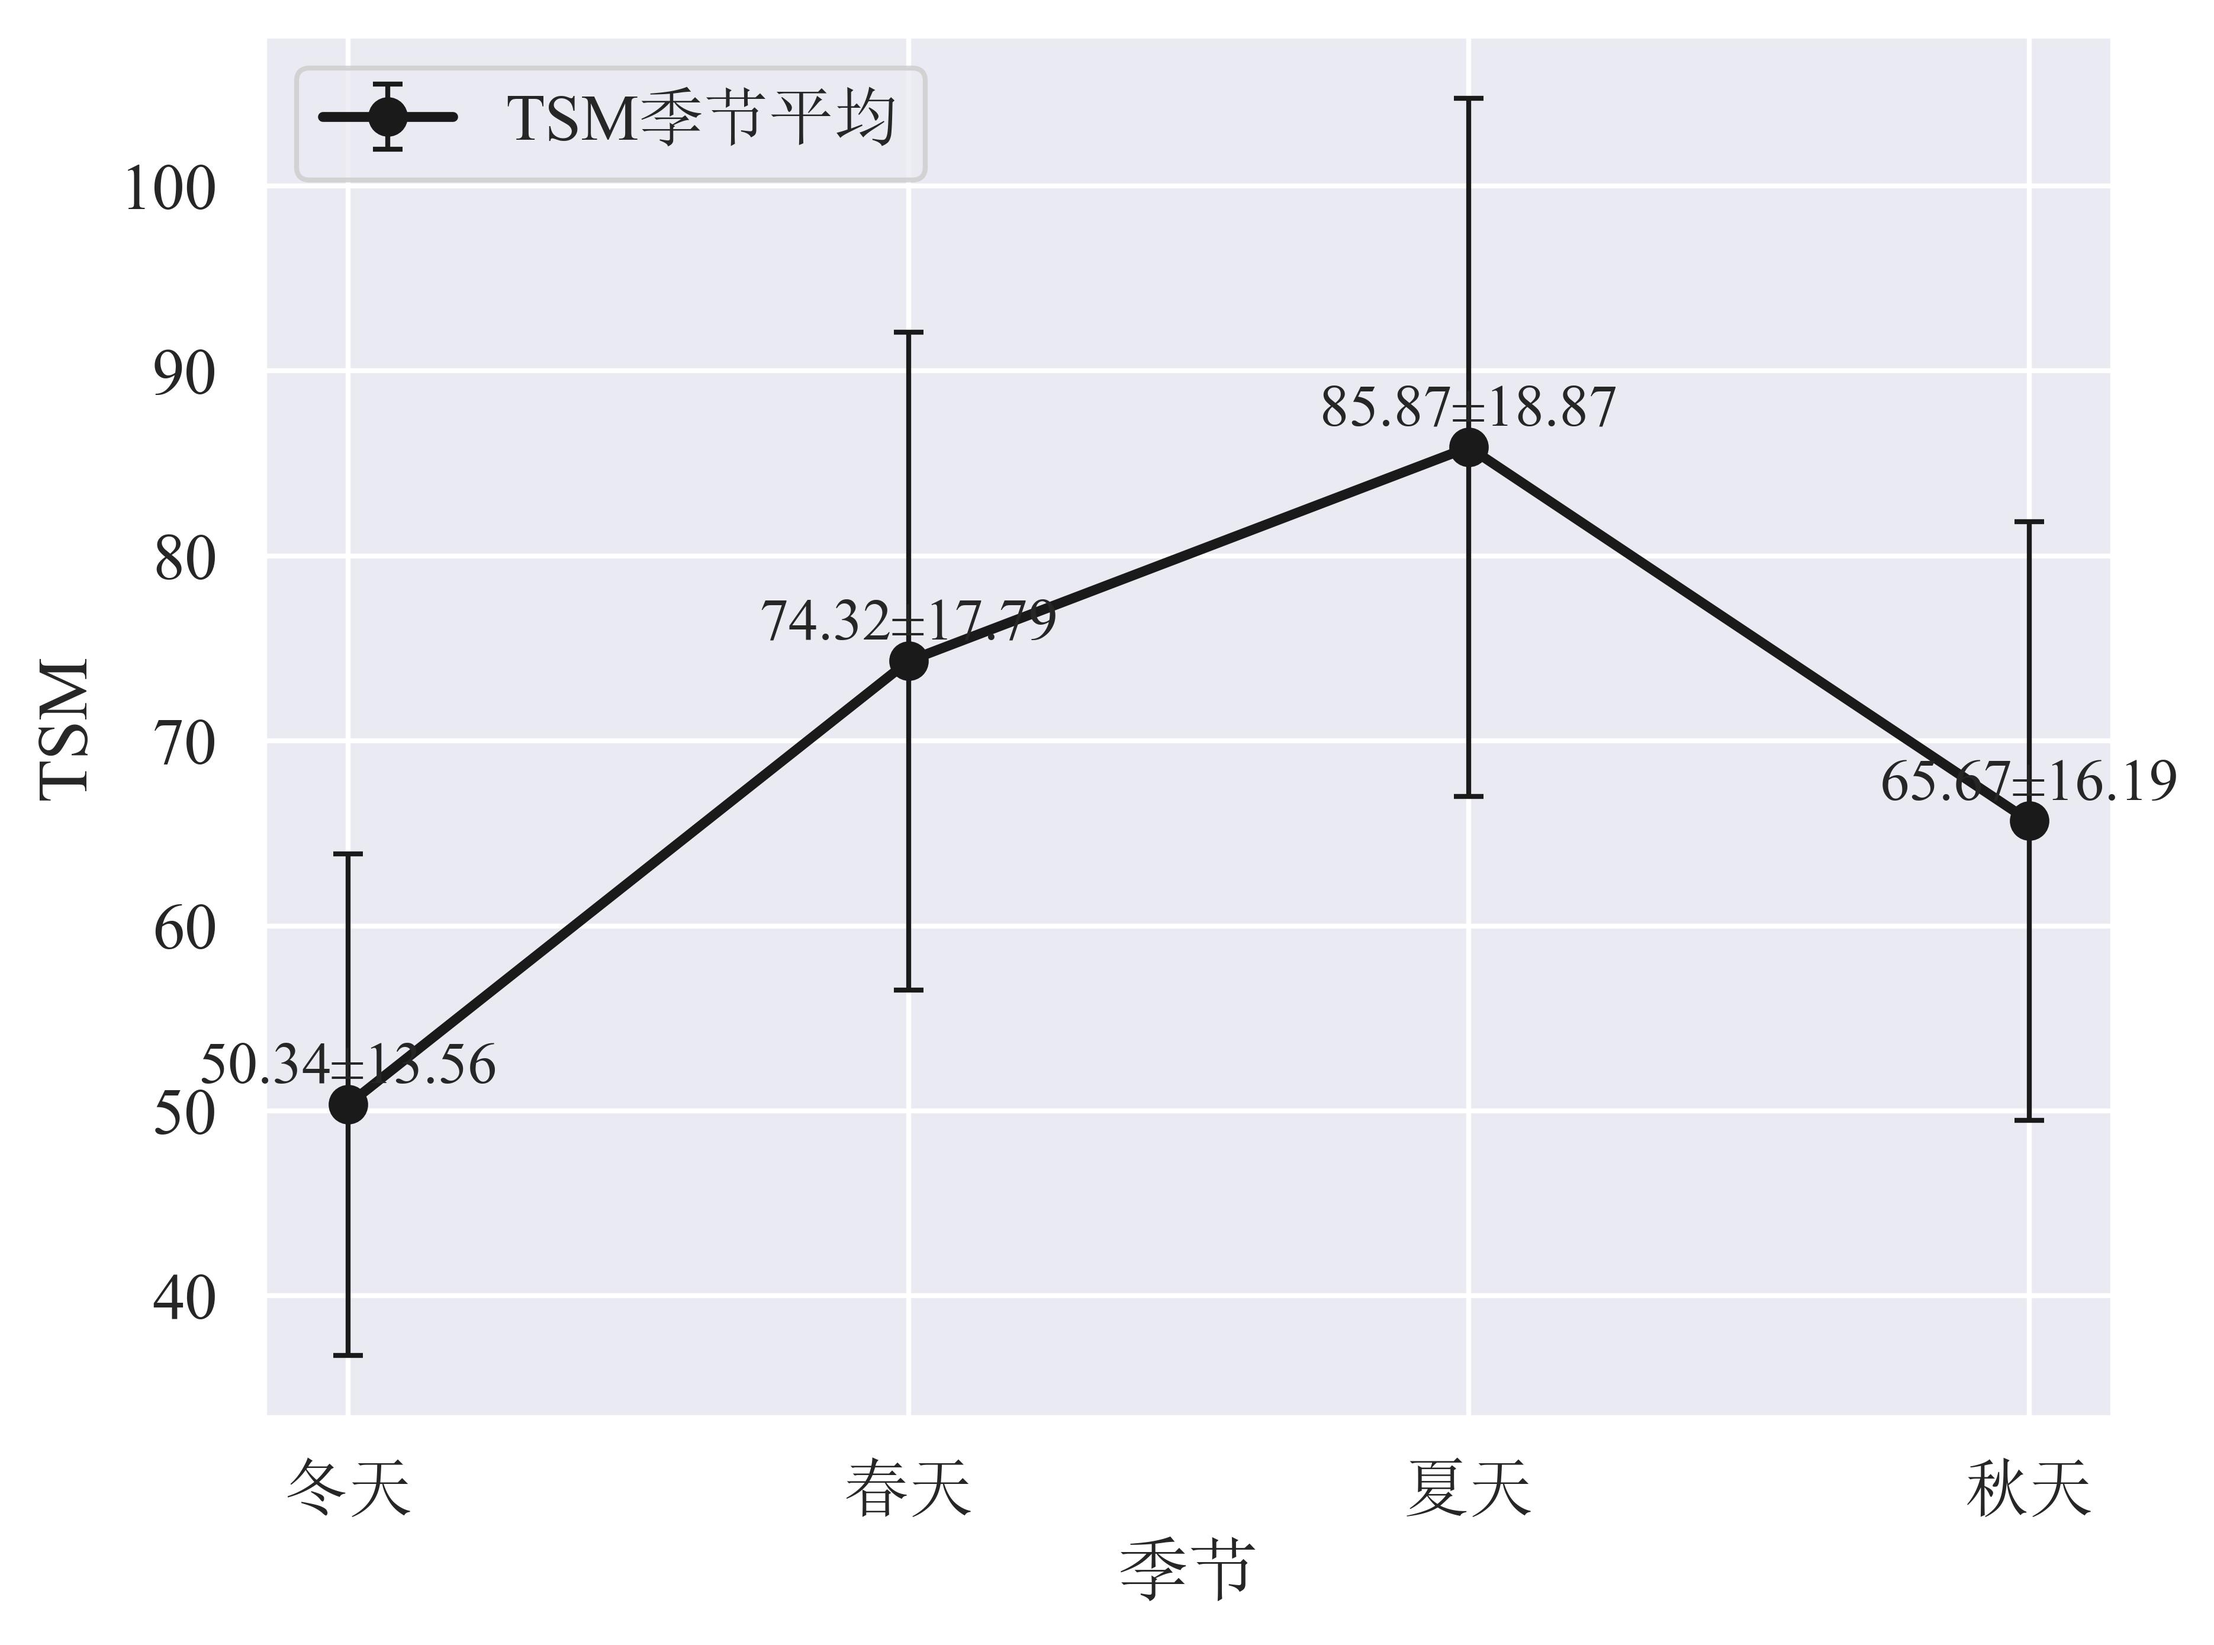
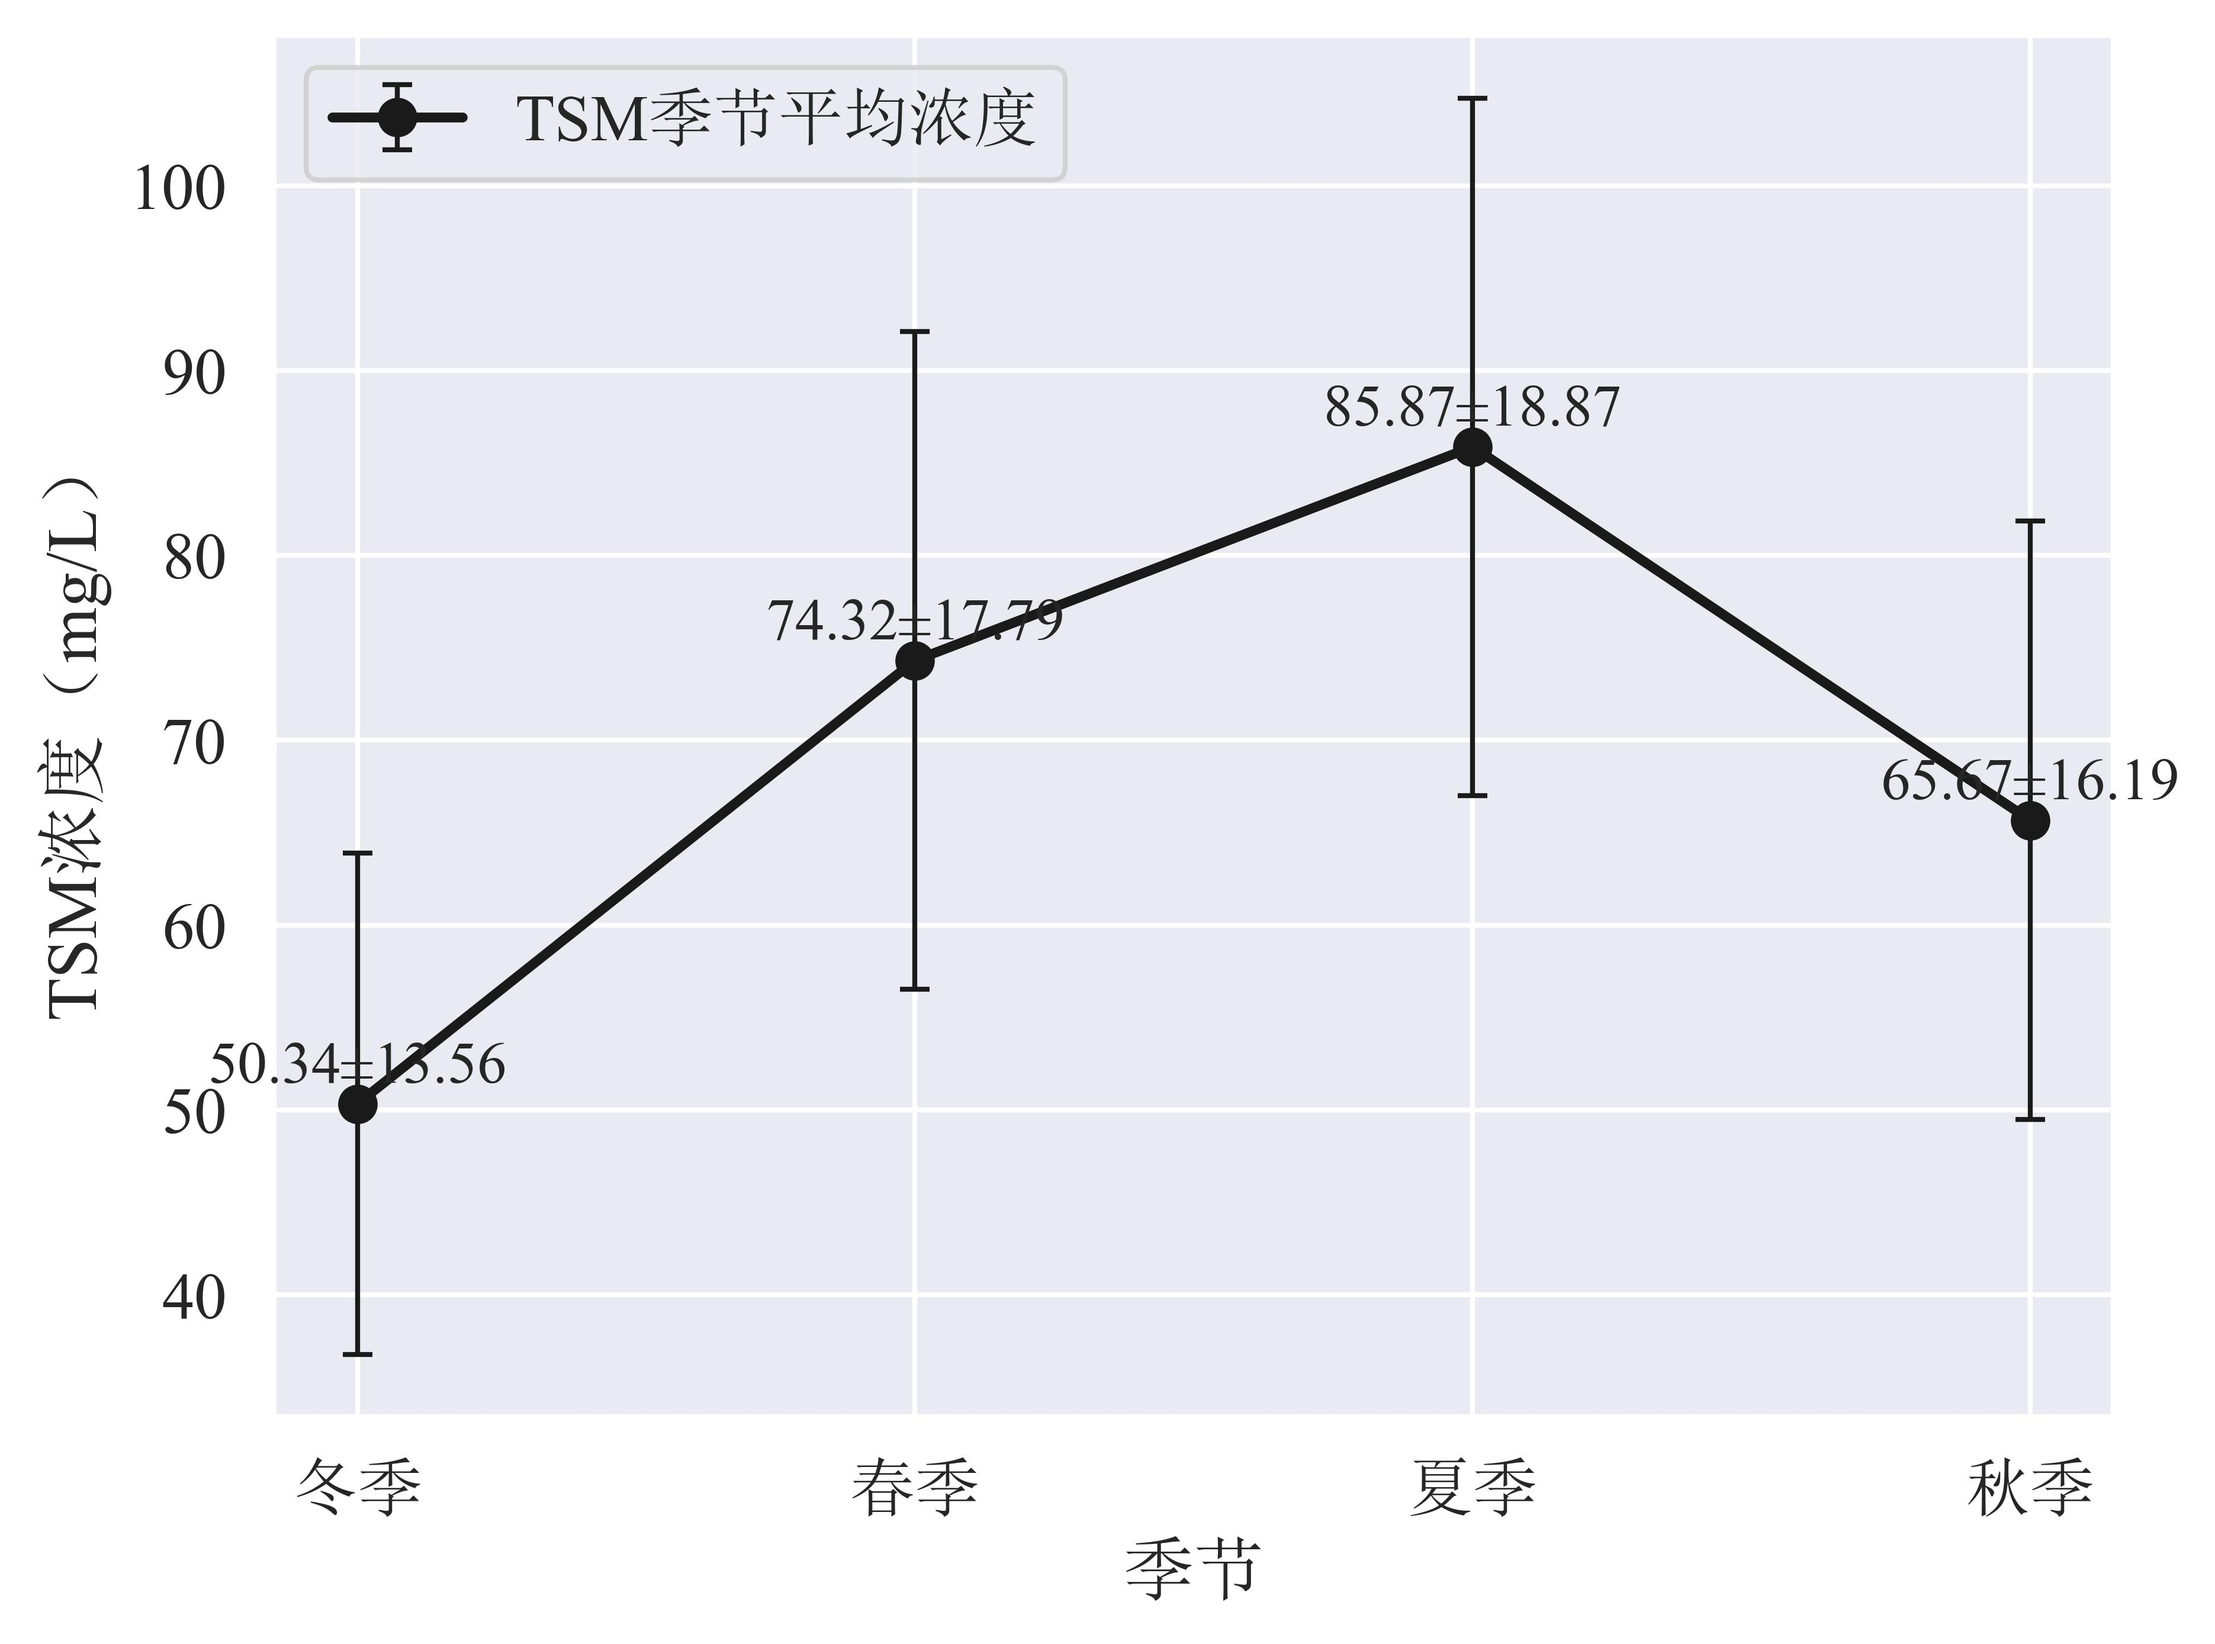
feat():update code

diff --git a/src/数据可视化系列/折线图（带误差线）.py b/src/数据可视化系列/折线图（带误差线）.py
@@ -6,16 +6,16 @@ import seaborn as sns
 
 # 读取数据
 # Chla
-data = pd.DataFrame({"冬天": [12.17243477, 11.36021739, 18.35030291, 17.15931569, 18.94613472, 16.43750166, 15.37389999, 10.84856549],
-                     "春天": [16.36929306,22.83614637,20.4675646,28.12451086,28.131717,26.51940728,19.91029632,17.48587054],
-                     "夏天": [20.0074298,16.45617457,19.00976795,30.69691155,29.66009154,26.608055,34.3336493,31.93616728],
-                     "秋天": [13.52213184,17.17267811,19.28456754,25.89692456,23.364554,19.29411813,18.39706469,20.87623326]})
+data = pd.DataFrame({"冬季": [12.17243477, 11.36021739, 18.35030291, 17.15931569, 18.94613472, 16.43750166, 15.37389999, 10.84856549],
+                     "春季": [16.36929306,22.83614637,20.4675646,28.12451086,28.131717,26.51940728,19.91029632,17.48587054],
+                     "夏季": [20.0074298,16.45617457,19.00976795,30.69691155,29.66009154,26.608055,34.3336493,31.93616728],
+                     "秋季": [13.52213184,17.17267811,19.28456754,25.89692456,23.364554,19.29411813,18.39706469,20.87623326]})
 
 # TSM
-# data = pd.DataFrame({"冬天": [61.33942848,53.06545816,66.16018363,59.75492281,56.13947823,39.95661586,39.74872857,26.54867376],
-#                      "春天": [57.85237926,88.52542273,69.83858729,100.7954867,90.05153574,77.72663986,53.1615178,56.5886519],
-#                      "夏天": [113.8424834,84.10512519,87.2216012,68.20572324,74.35835479,66.9090092,77.60736787,114.7180761],
-#                      "秋天": [58.61171097,62.03683565,72.26684726,74.73771652,63.41899826,46.7319264,49.79716516,97.77236206]})
+# data = pd.DataFrame({"冬季": [61.33942848,53.06545816,66.16018363,59.75492281,56.13947823,39.95661586,39.74872857,26.54867376],
+#                      "春季": [57.85237926,88.52542273,69.83858729,100.7954867,90.05153574,77.72663986,53.1615178,56.5886519],
+#                      "夏季": [113.8424834,84.10512519,87.2216012,68.20572324,74.35835479,66.9090092,77.60736787,114.7180761],
+#                      "秋季": [58.61171097,62.03683565,72.26684726,74.73771652,63.41899826,46.7319264,49.79716516,97.77236206]})
 
 
 print(data)
@@ -27,14 +27,14 @@ print(data.columns)
 sns.set(font_scale=1.2)
 plt.rc('font',family=['Times New Roman', 'SimSun'], size=12)
 
-plt.errorbar(list(data.columns), figdata, yerr=std_table, fmt='k-o', lw=2, ecolor='k',elinewidth=1, ms=7, capsize=3, label='Chla季节平均')
+plt.errorbar(list(data.columns), figdata, yerr=std_table, fmt='k-o', lw=2, ecolor='k',elinewidth=1, ms=7, capsize=3, label='Chl-a季节平均浓度')
 # 设置数字标签
 for a, b, c in zip(list(data.columns), figdata, std_table):
     plt.text(a, b+0.5, f'{round(b, 2)}±{round(c, 2)}', ha='center', va='bottom')
 
 plt.xlabel('季节')
-plt.ylabel('Chla')
+plt.ylabel('Chl-a浓度（ug/L）')
 plt.legend()
 plt.tight_layout()
-plt.savefig('Chla.jpg', bbox_inches='tight', dpi=600)
+plt.savefig('Chl-a.jpg', bbox_inches='tight', dpi=600)
 plt.show()
